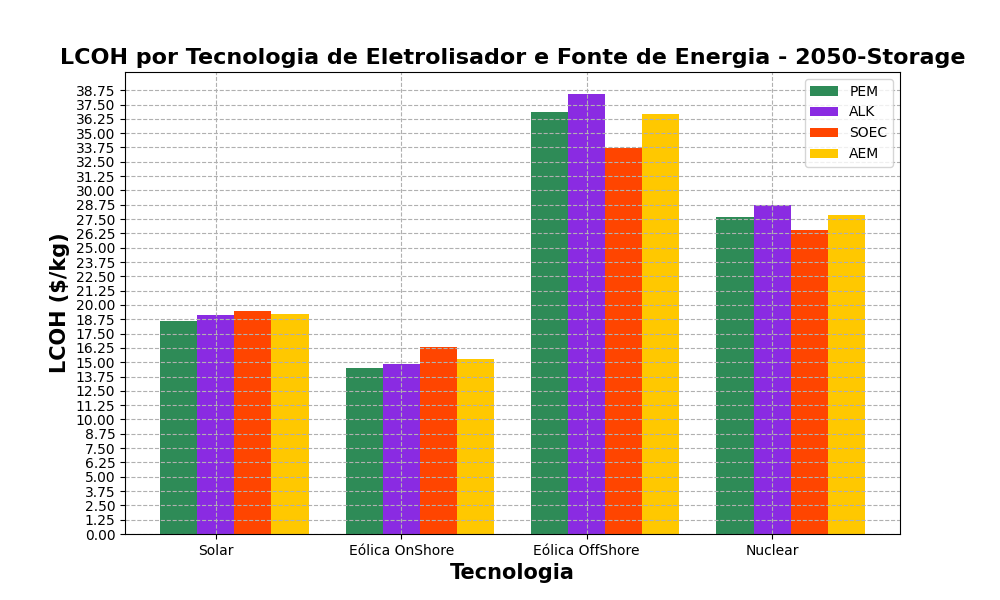
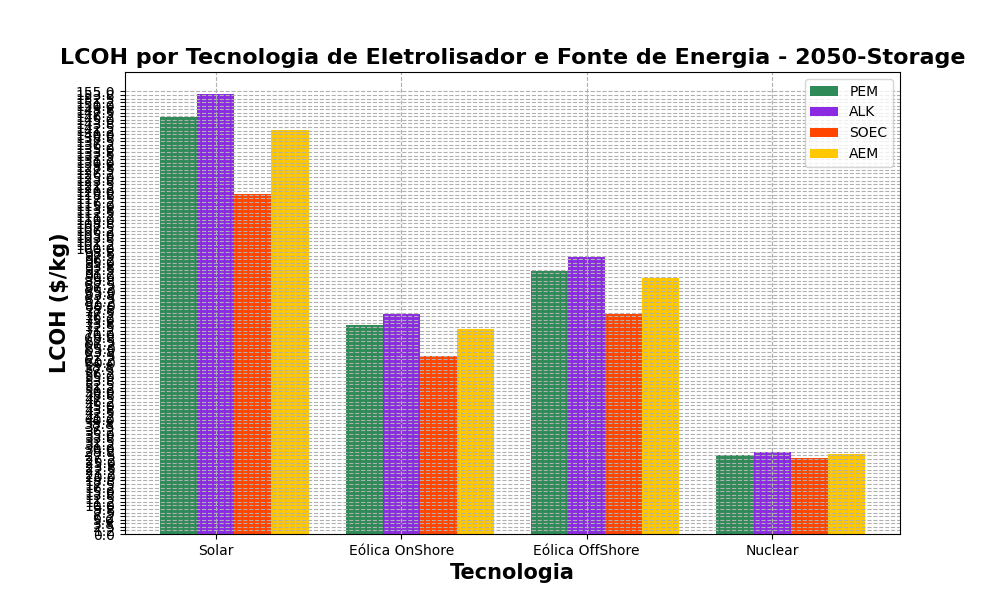
Capex and opex battery storge has been fixed. Now, it can simulate different scenarios by changing capex and opex from battery

Changed region(s): [[0.062, 0.15, 0.899, 0.9]]

diff --git a/Lcoh_main.py b/Lcoh_main.py
@@ -4,12 +4,16 @@ from classes import Energia, Eletrolisador
 from functions import plot_graph, write_txt, wh2, wh2_no_storage, lcoh, write_excel
 
 
-def parameters_present():
+def parameters_present_conservative():
     e = Energia('a',0,0,0)
     t = e.t
     wacc = 8/100
     year_storage = 'Present-Storage'
     year_no_storage = 'Present-No-Storage'
+
+    capex_battery = 73500
+    opex_battery = 500/73500
+
     ########### Energia ################
     ### custos energias
     # Solar
@@ -87,7 +91,7 @@ def parameters_present():
             capex_pem, opex_pem, pot_pem, h2_pem, FlowRate_pem, ef_pem, pem_energy_prod1kg, lifetime_pem, bar_pem,
             capex_alk, opex_alk, pot_alk, h2_alk, FlowRate_alk, ef_alk, alk_energy_prod1kg, lifetime_alk, bar_alk,
             capex_soec, opex_soec, pot_soec, h2_soec, FlowRate_soec, ef_soec, soec_energy_prod1kg, lifetime_soec, bar_soec,
-            capex_aem, nao_utilizado_opex, pot_aem, h2_aem, FlowRate_aem, ef_aem, aem_energy_prod1kg, lifetime_aem, bar_aem, year_storage)
+            capex_aem, nao_utilizado_opex, pot_aem, h2_aem, FlowRate_aem, ef_aem, aem_energy_prod1kg, lifetime_aem, bar_aem, year_storage, capex_battery, opex_battery)
 
     calculate_no_storage(t, wacc, capex_sol, opex_sol, cf_sol, capex_WindOnshore, opex_WindOnshore, cf_WindOnshore,
             capex_WindOffshore, opex_WindOffshore, cf_WindOffshore, capex_nuclear, opex_nuclear, cf_nuclear,
@@ -96,12 +100,16 @@ def parameters_present():
             capex_soec, opex_soec, pot_soec, h2_soec, FlowRate_soec, ef_soec, soec_energy_prod1kg, lifetime_soec, bar_soec,
             capex_aem, nao_utilizado_opex, pot_aem, h2_aem, FlowRate_aem, ef_aem, aem_energy_prod1kg, lifetime_aem, bar_aem, year_no_storage)
 
-def parameters_2030():
+def parameters_2030_conservative():
     e = Energia('a',0,0,0)
     t = e.t
     wacc = 8/100
     year_storage = '2030-Storage'
     year_no_storage = '2030-No-Storage'
+
+    capex_battery = 7350*0.2
+    opex_battery = 50/7350
+
     ########### Energia ################
     ### custos energias
     # Solar
@@ -179,7 +187,7 @@ def parameters_2030():
             capex_pem, opex_pem, pot_pem, h2_pem, FlowRate_pem, ef_pem, pem_energy_prod1kg, lifetime_pem, bar_pem,
             capex_alk, opex_alk, pot_alk, h2_alk, FlowRate_alk, ef_alk, alk_energy_prod1kg, lifetime_alk, bar_alk,
             capex_soec, opex_soec, pot_soec, h2_soec, FlowRate_soec, ef_soec, soec_energy_prod1kg, lifetime_soec, bar_soec,
-            capex_aem, nao_utilizado_opex, pot_aem, h2_aem, FlowRate_aem, ef_aem, aem_energy_prod1kg, lifetime_aem, bar_aem, year_storage)
+            capex_aem, nao_utilizado_opex, pot_aem, h2_aem, FlowRate_aem, ef_aem, aem_energy_prod1kg, lifetime_aem, bar_aem, year_storage, capex_battery, opex_battery)
     
     calculate_no_storage(t, wacc, capex_sol, opex_sol, cf_sol, capex_WindOnshore, opex_WindOnshore, cf_WindOnshore,
             capex_WindOffshore, opex_WindOffshore, cf_WindOffshore, capex_nuclear, opex_nuclear, cf_nuclear,
@@ -188,12 +196,16 @@ def parameters_2030():
             capex_soec, opex_soec, pot_soec, h2_soec, FlowRate_soec, ef_soec, soec_energy_prod1kg, lifetime_soec, bar_soec,
             capex_aem, nao_utilizado_opex, pot_aem, h2_aem, FlowRate_aem, ef_aem, aem_energy_prod1kg, lifetime_aem, bar_aem, year_no_storage)
 
-def parameters_2050():
+def parameters_2050_conservative():
     e = Energia('a',0,0,0)
     t = e.t
     wacc = 8/100
     year_storage = '2050-Storage'
     year_no_storage = '2050-No-Storage'
+
+    capex_battery = 73500
+    opex_battery = 500/73500
+
     ########### Energia ################
     ### custos energias
     # Solar
@@ -271,7 +283,7 @@ def parameters_2050():
             capex_pem, opex_pem, pot_pem, h2_pem, FlowRate_pem, ef_pem, pem_energy_prod1kg, lifetime_pem, bar_pem,
             capex_alk, opex_alk, pot_alk, h2_alk, FlowRate_alk, ef_alk, alk_energy_prod1kg, lifetime_alk, bar_alk,
             capex_soec, opex_soec, pot_soec, h2_soec, FlowRate_soec, ef_soec, soec_energy_prod1kg, lifetime_soec, bar_soec,
-            capex_aem, nao_utilizado_opex, pot_aem, h2_aem, FlowRate_aem, ef_aem, aem_energy_prod1kg, lifetime_aem, bar_aem, year_storage)
+            capex_aem, nao_utilizado_opex, pot_aem, h2_aem, FlowRate_aem, ef_aem, aem_energy_prod1kg, lifetime_aem, bar_aem, year_storage, capex_battery, opex_battery)
     
     calculate_no_storage(t, wacc, capex_sol, opex_sol, cf_sol, capex_WindOnshore, opex_WindOnshore, cf_WindOnshore,
             capex_WindOffshore, opex_WindOffshore, cf_WindOffshore, capex_nuclear, opex_nuclear, cf_nuclear,
@@ -285,7 +297,7 @@ def calculate_with_storage(t, wacc, capex_sol, opex_sol, cf_sol, capex_WindOnsho
             capex_pem, opex_pem, pot_pem, h2_pem, FlowRate_pem, ef_pem, pem_energy_prod1kg, lifetime_pem, bar_pem,
             capex_alk, opex_alk, pot_alk, h2_alk, FlowRate_alk, ef_alk, alk_energy_prod1kg, lifetime_alk, bar_alk,
             capex_soec, opex_soec, pot_soec, h2_soec, FlowRate_soec, ef_soec, soec_energy_prod1kg, lifetime_soec, bar_soec,
-            capex_aem, nao_utilizado_opex, pot_aem, h2_aem, FlowRate_aem, ef_aem, aem_energy_prod1kg, lifetime_aem, bar_aem, year_storage):
+            capex_aem, nao_utilizado_opex, pot_aem, h2_aem, FlowRate_aem, ef_aem, aem_energy_prod1kg, lifetime_aem, bar_aem, year_storage, capex_battery, opex_battery):
     
     solar = Energia('Solar', capex_sol, opex_sol, cf_sol)
     WindOnshore = Energia('WindOnshore', capex_WindOnshore, opex_WindOnshore, cf_WindOnshore)
@@ -301,28 +313,28 @@ def calculate_with_storage(t, wacc, capex_sol, opex_sol, cf_sol, capex_WindOnsho
     ############# Calculos #################
     ### Total capex opex energias, que é parecido porque as plantas tem apriximadamente 1 MW
     # Energias Capex e Opex PEM
-    tot_capex_solar_pem, tot_opex_solar_pem, ciclo_pem_solar = solar.energy_total_capex_opex(pem.pot,cf_sol, pem.name, lifetime_pem) # Entro com a potencia pois a potencia instalada é com base na potencia do eletrolisador e do cf
-    tot_capex_WindOnshore_pem, tot_opex_WindOnshore_pem, ciclo_pem_WindOnshore = WindOnshore.energy_total_capex_opex(pem.pot, cf_WindOnshore, pem.name, lifetime_pem)
-    tot_capex_WindOffshore_pem, tot_opex_WindOffshore_pem, ciclo_pem_WindOffshore = WindOffshore.energy_total_capex_opex(pem.pot, cf_WindOffshore, pem.name, lifetime_pem)
-    tot_capex_nuclear_pem, tot_opex_nuclear_pem, ciclo_pem_nuclear = nuclear.energy_total_capex_opex(pem.pot, cf_nuclear, pem.name, lifetime_pem)
+    tot_capex_solar_pem, tot_opex_solar_pem, ciclo_pem_solar = solar.energy_total_capex_opex(pem.pot,cf_sol, pem.name, lifetime_pem, capex_battery, opex_battery) # Entro com a potencia pois a potencia instalada é com base na potencia do eletrolisador e do cf
+    tot_capex_WindOnshore_pem, tot_opex_WindOnshore_pem, ciclo_pem_WindOnshore = WindOnshore.energy_total_capex_opex(pem.pot, cf_WindOnshore, pem.name, lifetime_pem, capex_battery, opex_battery)
+    tot_capex_WindOffshore_pem, tot_opex_WindOffshore_pem, ciclo_pem_WindOffshore = WindOffshore.energy_total_capex_opex(pem.pot, cf_WindOffshore, pem.name, lifetime_pem, capex_battery, opex_battery)
+    tot_capex_nuclear_pem, tot_opex_nuclear_pem, ciclo_pem_nuclear = nuclear.energy_total_capex_opex(pem.pot, cf_nuclear, pem.name, lifetime_pem, capex_battery, opex_battery)
 
     # Energia Capex e Opex AWE
-    tot_capex_solar_alk, tot_opex_solar_alk, ciclo_alk_solar = solar.energy_total_capex_opex(alk.pot, cf_sol, alk.name, lifetime_alk)
-    tot_capex_WindOnshore_alk, tot_opex_WindOnshore_alk, ciclo_alk_WindOnshore = WindOnshore.energy_total_capex_opex(alk.pot, cf_WindOnshore, alk.name, lifetime_alk)
-    tot_capex_WindOffshore_alk, tot_opex_WindOffshore_alk, ciclo_alk_WindOffshore = WindOffshore.energy_total_capex_opex(alk.pot, cf_WindOffshore, alk.name, lifetime_alk)
-    tot_capex_nuclear_alk, tot_opex_nuclear_alk, ciclo_alk_nuclear = nuclear.energy_total_capex_opex(alk.pot, cf_nuclear, alk.name, lifetime_alk)
+    tot_capex_solar_alk, tot_opex_solar_alk, ciclo_alk_solar = solar.energy_total_capex_opex(alk.pot, cf_sol, alk.name, lifetime_alk, capex_battery, opex_battery)
+    tot_capex_WindOnshore_alk, tot_opex_WindOnshore_alk, ciclo_alk_WindOnshore = WindOnshore.energy_total_capex_opex(alk.pot, cf_WindOnshore, alk.name, lifetime_alk, capex_battery, opex_battery)
+    tot_capex_WindOffshore_alk, tot_opex_WindOffshore_alk, ciclo_alk_WindOffshore = WindOffshore.energy_total_capex_opex(alk.pot, cf_WindOffshore, alk.name, lifetime_alk, capex_battery, opex_battery)
+    tot_capex_nuclear_alk, tot_opex_nuclear_alk, ciclo_alk_nuclear = nuclear.energy_total_capex_opex(alk.pot, cf_nuclear, alk.name, lifetime_alk, capex_battery, opex_battery)
 
     # Energia Capex e Opex SEOC
-    tot_capex_solar_soec, tot_opex_solar_soec, ciclo_soec_solar = solar.energy_total_capex_opex(soec.pot, cf_sol, soec.name, lifetime_soec)
-    tot_capex_WindOnshore_soec, tot_opex_WindOnshore_soec, ciclo_soec_WindOnshore = WindOnshore.energy_total_capex_opex(soec.pot, cf_WindOnshore, soec.name, lifetime_soec)
-    tot_capex_WindOffshore_soec, tot_opex_WindOffshore_soec, ciclo_soec_WindOffshore = WindOffshore.energy_total_capex_opex(soec.pot, cf_WindOffshore, soec.name, lifetime_soec)
-    tot_capex_nuclear_soec, tot_opex_nuclear_soec, ciclo_soec_nuclear = nuclear.energy_total_capex_opex(soec.pot, cf_nuclear, soec.name, lifetime_soec)
+    tot_capex_solar_soec, tot_opex_solar_soec, ciclo_soec_solar = solar.energy_total_capex_opex(soec.pot, cf_sol, soec.name, lifetime_soec, capex_battery, opex_battery)
+    tot_capex_WindOnshore_soec, tot_opex_WindOnshore_soec, ciclo_soec_WindOnshore = WindOnshore.energy_total_capex_opex(soec.pot, cf_WindOnshore, soec.name, lifetime_soec, capex_battery, opex_battery)
+    tot_capex_WindOffshore_soec, tot_opex_WindOffshore_soec, ciclo_soec_WindOffshore = WindOffshore.energy_total_capex_opex(soec.pot, cf_WindOffshore, soec.name, lifetime_soec, capex_battery, opex_battery)
+    tot_capex_nuclear_soec, tot_opex_nuclear_soec, ciclo_soec_nuclear = nuclear.energy_total_capex_opex(soec.pot, cf_nuclear, soec.name, lifetime_soec, capex_battery, opex_battery)
 
     # Energia capex opex AEM
-    tot_capex_solar_aem, tot_opex_solar_aem, ciclo_aem_solar = solar.energy_total_capex_opex(aem.pot, cf_sol, aem.name, lifetime_aem)    
-    tot_capex_WindOnshore_aem, tot_opex_WindOnshore_aem, ciclo_aem_WindOnshore = WindOnshore.energy_total_capex_opex(aem.pot, cf_WindOnshore, aem.name, lifetime_aem)
-    tot_capex_WindOffshore_aem, tot_opex_WindOffshore_aem, ciclo_aem_WindOffshore = WindOffshore.energy_total_capex_opex(aem.pot, cf_WindOffshore, aem.name, lifetime_aem)
-    tot_capex_nuclear_aem, tot_opex_nuclear_aem, ciclo_aem_nuclear = nuclear.energy_total_capex_opex(aem.pot, cf_nuclear, aem.name, lifetime_aem)
+    tot_capex_solar_aem, tot_opex_solar_aem, ciclo_aem_solar = solar.energy_total_capex_opex(aem.pot, cf_sol, aem.name, lifetime_aem, capex_battery, opex_battery)    
+    tot_capex_WindOnshore_aem, tot_opex_WindOnshore_aem, ciclo_aem_WindOnshore = WindOnshore.energy_total_capex_opex(aem.pot, cf_WindOnshore, aem.name, lifetime_aem, capex_battery, opex_battery)
+    tot_capex_WindOffshore_aem, tot_opex_WindOffshore_aem, ciclo_aem_WindOffshore = WindOffshore.energy_total_capex_opex(aem.pot, cf_WindOffshore, aem.name, lifetime_aem, capex_battery, opex_battery)
+    tot_capex_nuclear_aem, tot_opex_nuclear_aem, ciclo_aem_nuclear = nuclear.energy_total_capex_opex(aem.pot, cf_nuclear, aem.name, lifetime_aem, capex_battery, opex_battery)
 
     #########
     ####### Eletrolisador Capex e opex ##### Busco na classe o valor do meu capex e opex total
@@ -415,7 +427,6 @@ def calculate_with_storage(t, wacc, capex_sol, opex_sol, cf_sol, capex_WindOnsho
     
     write_excel()
 
-    #write_to_sheet(year_storage)
 
 def calculate_no_storage(t, wacc, capex_sol, opex_sol, cf_sol, capex_WindOnshore, opex_WindOnshore, cf_WindOnshore,
             capex_WindOffshore, opex_WindOffshore, cf_WindOffshore, capex_nuclear, opex_nuclear, cf_nuclear,
@@ -550,14 +561,13 @@ def calculate_no_storage(t, wacc, capex_sol, opex_sol, cf_sol, capex_WindOnshore
           lcoh_no_storage_soec_pv, lcoh_no_storage_soec_WindOnshore, lcoh_no_storage_soec_WindOffshore, lcoh_no_storage_soec_nuclear,
           lcoh_no_storage_aem_pv, lcoh_no_storage_aem_WindOnshore, lcoh_no_storage_aem_WindOffshore, lcoh_no_storage_aem_nuclear, year_no_storage)
     
-    #write_to_sheet(year_no_storage)
     
     #write_excel()
 
 def main():
-    parameters_present()
-    parameters_2030()
-    parameters_2050()
+    parameters_present_conservative()
+    parameters_2030_conservative()
+    parameters_2050_conservative()
 
 if __name__ == '__main__':
     main()

diff --git a/classes.py b/classes.py
@@ -65,8 +65,6 @@ class Energia:
         self.opex = opex
         self.cf = cf
         self.t = 20
-        self.CapexBateria = 7350*0.2
-        self.OpexBateria = 70/self.CapexBateria 
 
     """
     Total capex e opex da fonte energia com base na potência do eletrolisador.
@@ -74,16 +72,16 @@ class Energia:
     Essa fórmula multiplica o capex pelo total de energia que minha planta deve ter com base no fator de capacidade
     Se meu eletrolisador tem 1 MW e cf_sol 0.25, minha planta deve ter 1 MW/0.25 = 4 WM
     """
-    def energy_total_capex_opex(self,pot,cf, nome, lifetime):
+    def energy_total_capex_opex(self,pot,cf, nome, lifetime, capex_battery, opex_battery):
         PlantPower = pot/cf
-        CapexEnergyToStore = self.CapexBateria*(PlantPower - pot)*0.66
+        CapexEnergyToStore = capex_battery*(PlantPower - pot)*0.66
 
-        plantLifetime = self.t*365*24 # Tempo de vida em horas
+        plantLifetime = self.t*365*24 # hours lifetime 
         TimeOperationElectrolyser = plantLifetime/lifetime
         ciclosEletrolisador = np.ceil(TimeOperationElectrolyser)
 
         capex_energy = self.capex*(PlantPower)*0.66 + CapexEnergyToStore # capex_energy = self.capex*(pot/cf)
-        tot_opex_energy = self.opex*capex_energy
+        tot_opex_energy = self.opex*capex_energy + opex_battery*CapexEnergyToStore
 
         print('---------------------------------')
         print(f'O {nome} - {self.name} tem {ciclosEletrolisador:.2f} ciclos')
